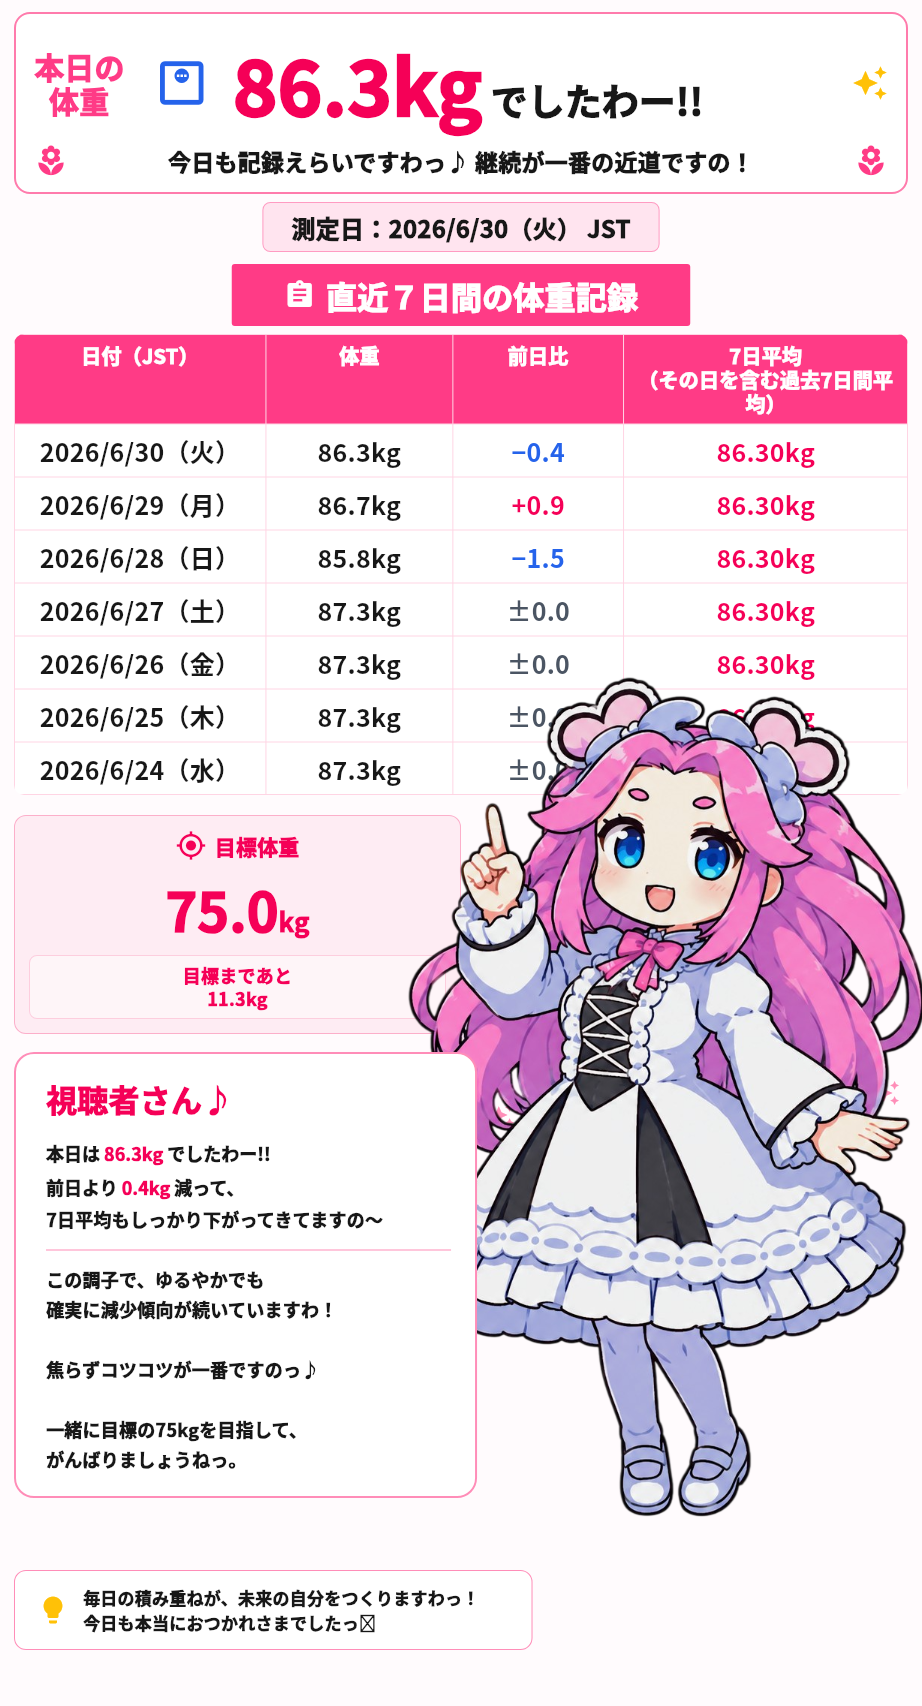
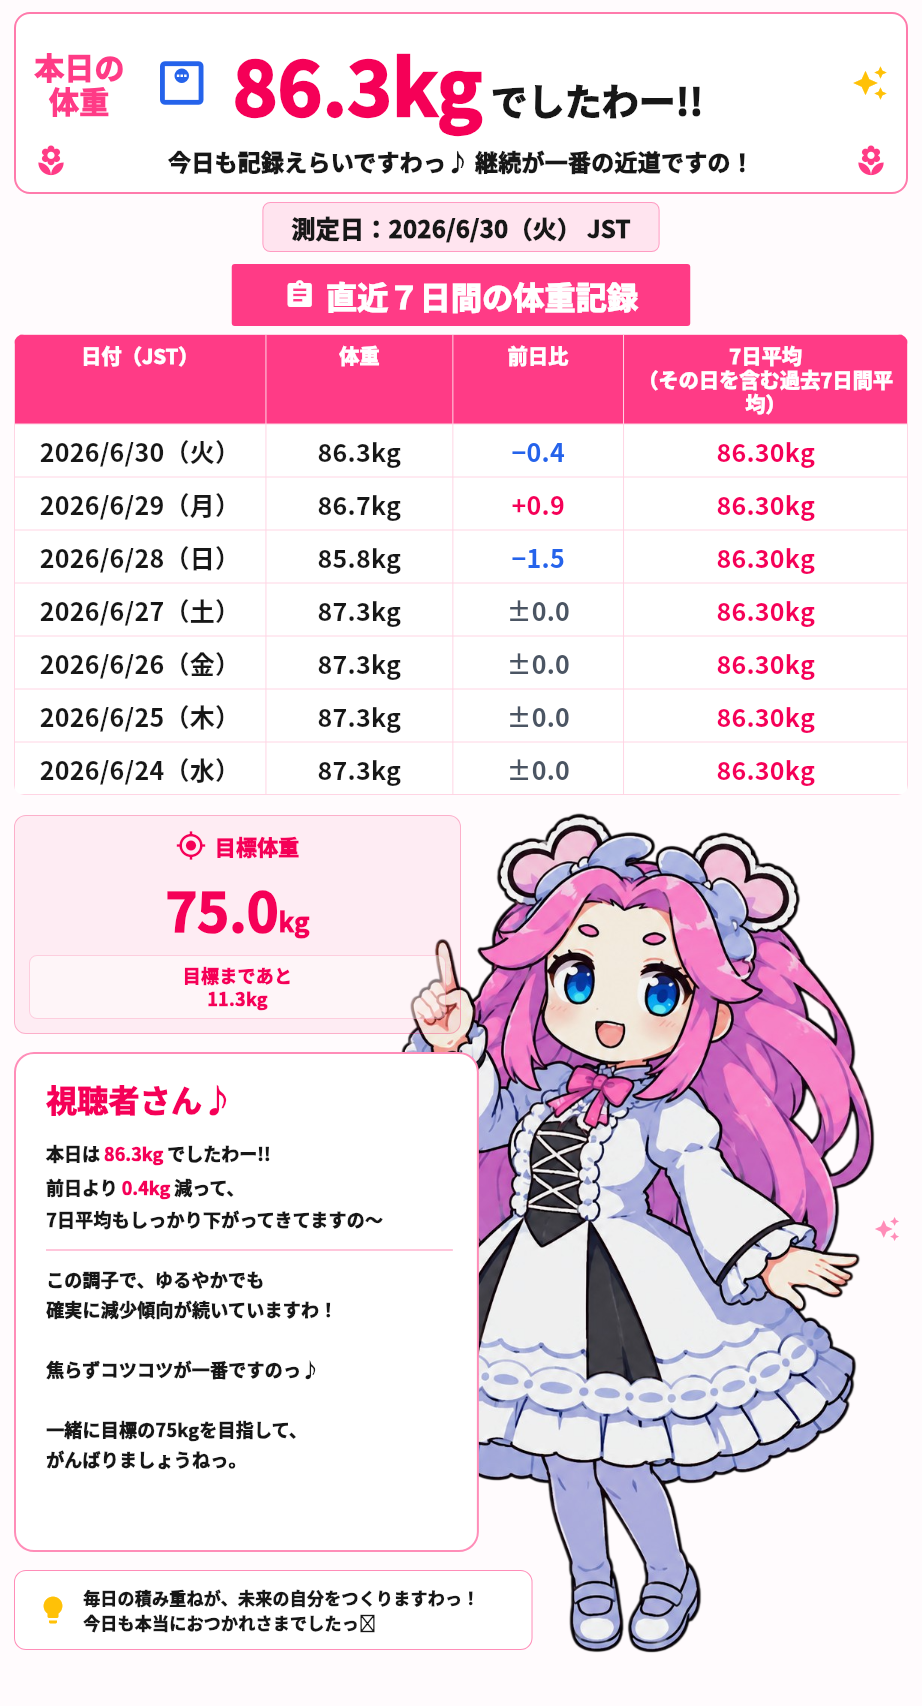
Anchor report character to screen bottom right

Changed region(s): [[0.4252, 0.3728, 1.0, 0.9941]]

diff --git a/lib/screens/report_screen.dart b/lib/screens/report_screen.dart
@@ -71,31 +71,45 @@ class _ReportBody extends StatelessWidget {
                     fontFamily: 'Noto Sans JP',
                     fontWeight: FontWeight.w700,
                   ),
-                  child: Column(
-                    crossAxisAlignment: CrossAxisAlignment.stretch,
+                  child: Stack(
+                    clipBehavior: Clip.none,
                     children: [
-                      _ReportHeroHeader(latest: latest, scale: scale),
-                      const SizedBox(height: 8),
-                      Center(
-                        child: _MeasuredDateBadge(
-                          date: latest?.date ?? DateTime.now(),
-                          scale: scale,
+                      Positioned(
+                        right: 0,
+                        bottom: 0,
+                        width: 420 * scale,
+                        height: 500 * scale,
+                        child: _ReportCharacterArt(scale: scale),
+                      ),
+                      Positioned.fill(
+                        child: Column(
+                          crossAxisAlignment: CrossAxisAlignment.stretch,
+                          children: [
+                            _ReportHeroHeader(latest: latest, scale: scale),
+                            const SizedBox(height: 8),
+                            Center(
+                              child: _MeasuredDateBadge(
+                                date: latest?.date ?? DateTime.now(),
+                                scale: scale,
+                              ),
+                            ),
+                            const SizedBox(height: 12),
+                            _RibbonTitle(scale: scale),
+                            const SizedBox(height: 8),
+                            _SevenDayTable(rows: rows, scale: scale),
+                            const SizedBox(height: 20),
+                            _SummaryCards(remaining: remaining, scale: scale),
+                            const SizedBox(height: 18),
+                            _CharacterMessageRow(
+                              latestWeight: latestWeight,
+                              previousDiff: previousDiff,
+                              scale: scale,
+                            ),
+                            const SizedBox(height: 18),
+                            _FooterMessage(scale: scale),
+                          ],
                         ),
                       ),
-                      const SizedBox(height: 12),
-                      _RibbonTitle(scale: scale),
-                      const SizedBox(height: 8),
-                      _SevenDayTable(rows: rows, scale: scale),
-                      const SizedBox(height: 20),
-                      _SummaryCards(remaining: remaining, scale: scale),
-                      const SizedBox(height: 18),
-                      _CharacterMessageRow(
-                        latestWeight: latestWeight,
-                        previousDiff: previousDiff,
-                        scale: scale,
-                      ),
-                      const SizedBox(height: 18),
-                      _FooterMessage(scale: scale),
                     ],
                   ),
                 ),
@@ -486,34 +500,20 @@ class _CharacterMessageRow extends StatelessWidget {
   Widget build(BuildContext context) {
     return LayoutBuilder(
       builder: (context, constraints) {
-        final gap = 10 * scale;
-        final availableWidth = constraints.maxWidth - gap;
-        final messageWidth = availableWidth * 11 / 21;
-        final characterWidth = availableWidth * 10 / 21;
+        final messageWidth = constraints.maxWidth * 0.52;
 
         return SizedBox(
           height: 500 * scale,
-          child: Stack(
-            clipBehavior: Clip.none,
-            children: [
-              Positioned(
-                right: 0,
-                bottom: 0,
-                width: characterWidth,
-                height: 500 * scale,
-                child: _ReportCharacterArt(scale: scale),
+          child: Align(
+            alignment: Alignment.topLeft,
+            child: SizedBox(
+              width: messageWidth,
+              child: _ViewerMessagePanel(
+                latestWeight: latestWeight,
+                previousDiff: previousDiff,
+                scale: scale,
               ),
-              Positioned(
-                left: 0,
-                top: 0,
-                width: messageWidth,
-                child: _ViewerMessagePanel(
-                  latestWeight: latestWeight,
-                  previousDiff: previousDiff,
-                  scale: scale,
-                ),
-              ),
-            ],
+            ),
           ),
         );
       },
@@ -543,7 +543,7 @@ class _ReportCharacterArt extends StatelessWidget {
           child: _Sparkle(scale: scale),
         ),
         Positioned(
-          right: -50 * scale,
+          right: 0,
           bottom: 0,
           child: Transform.scale(
             scale: _reportCharacterScale,
